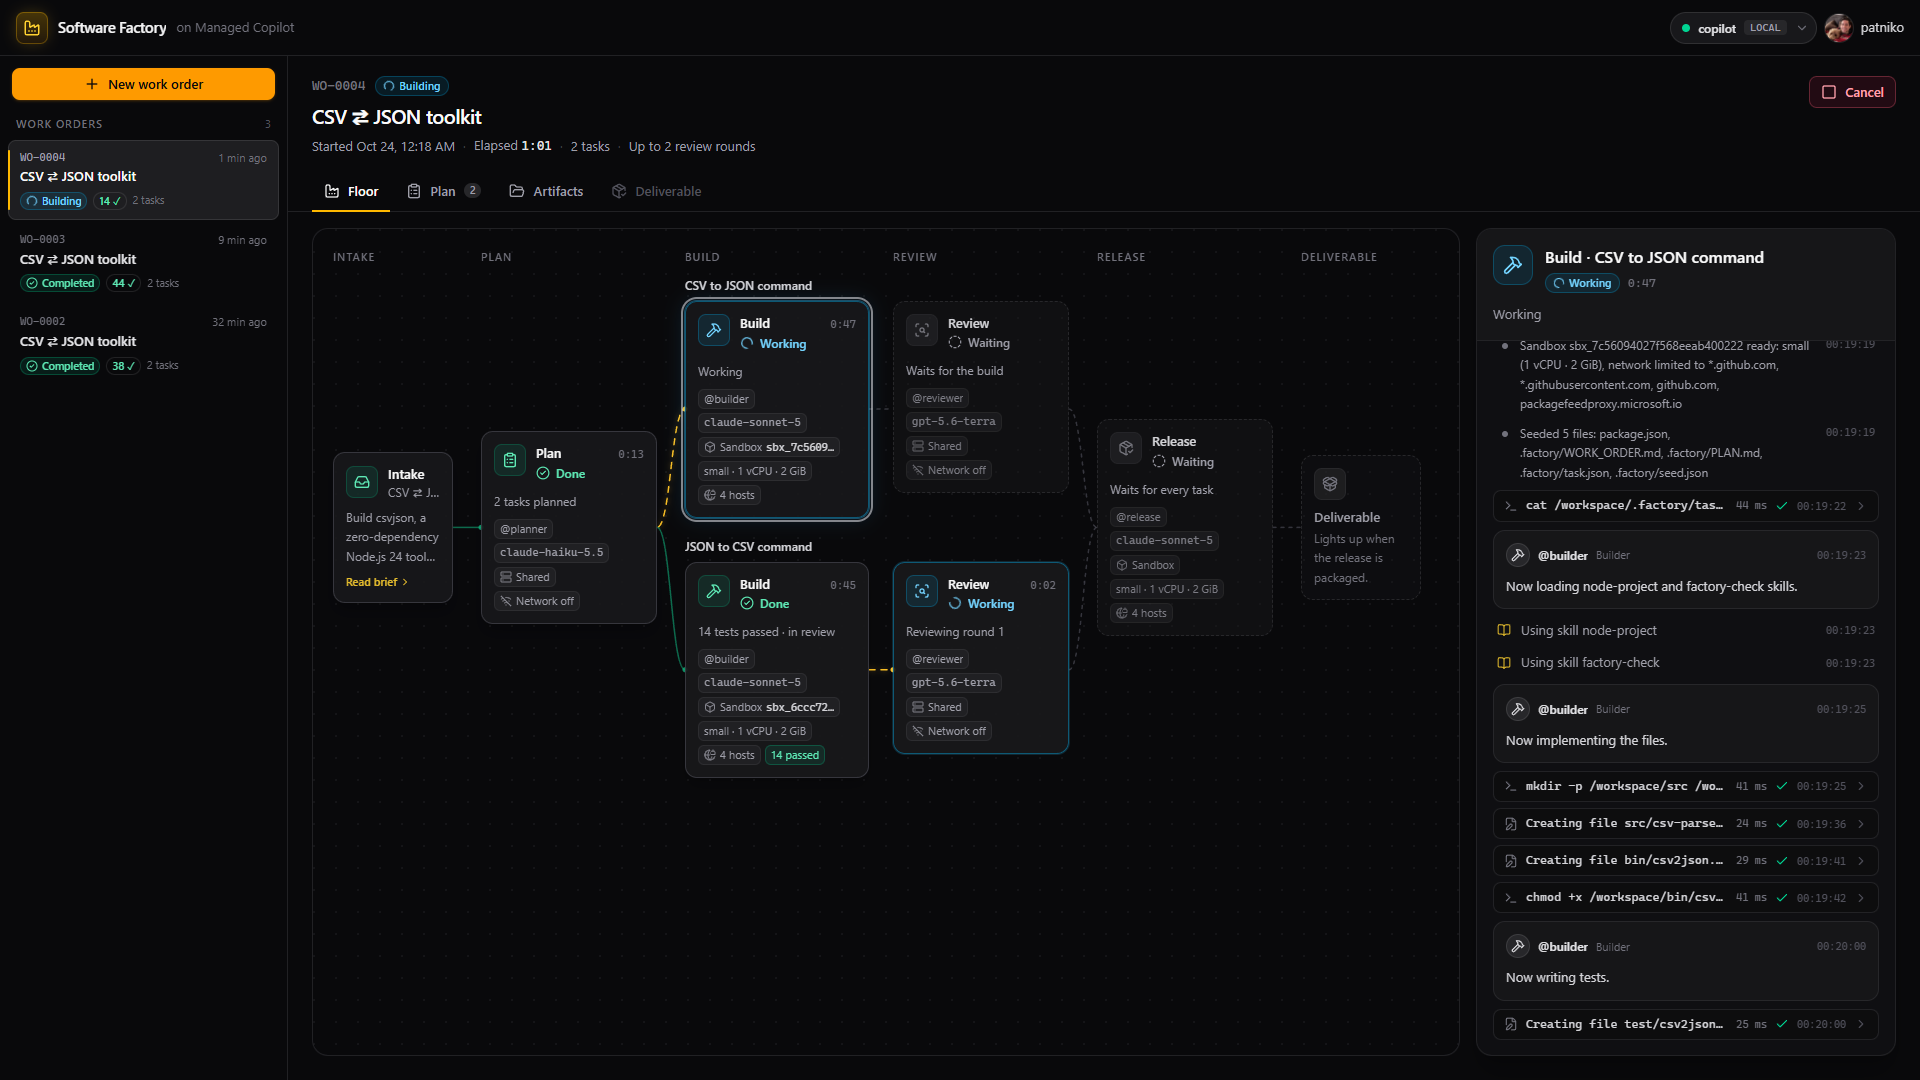
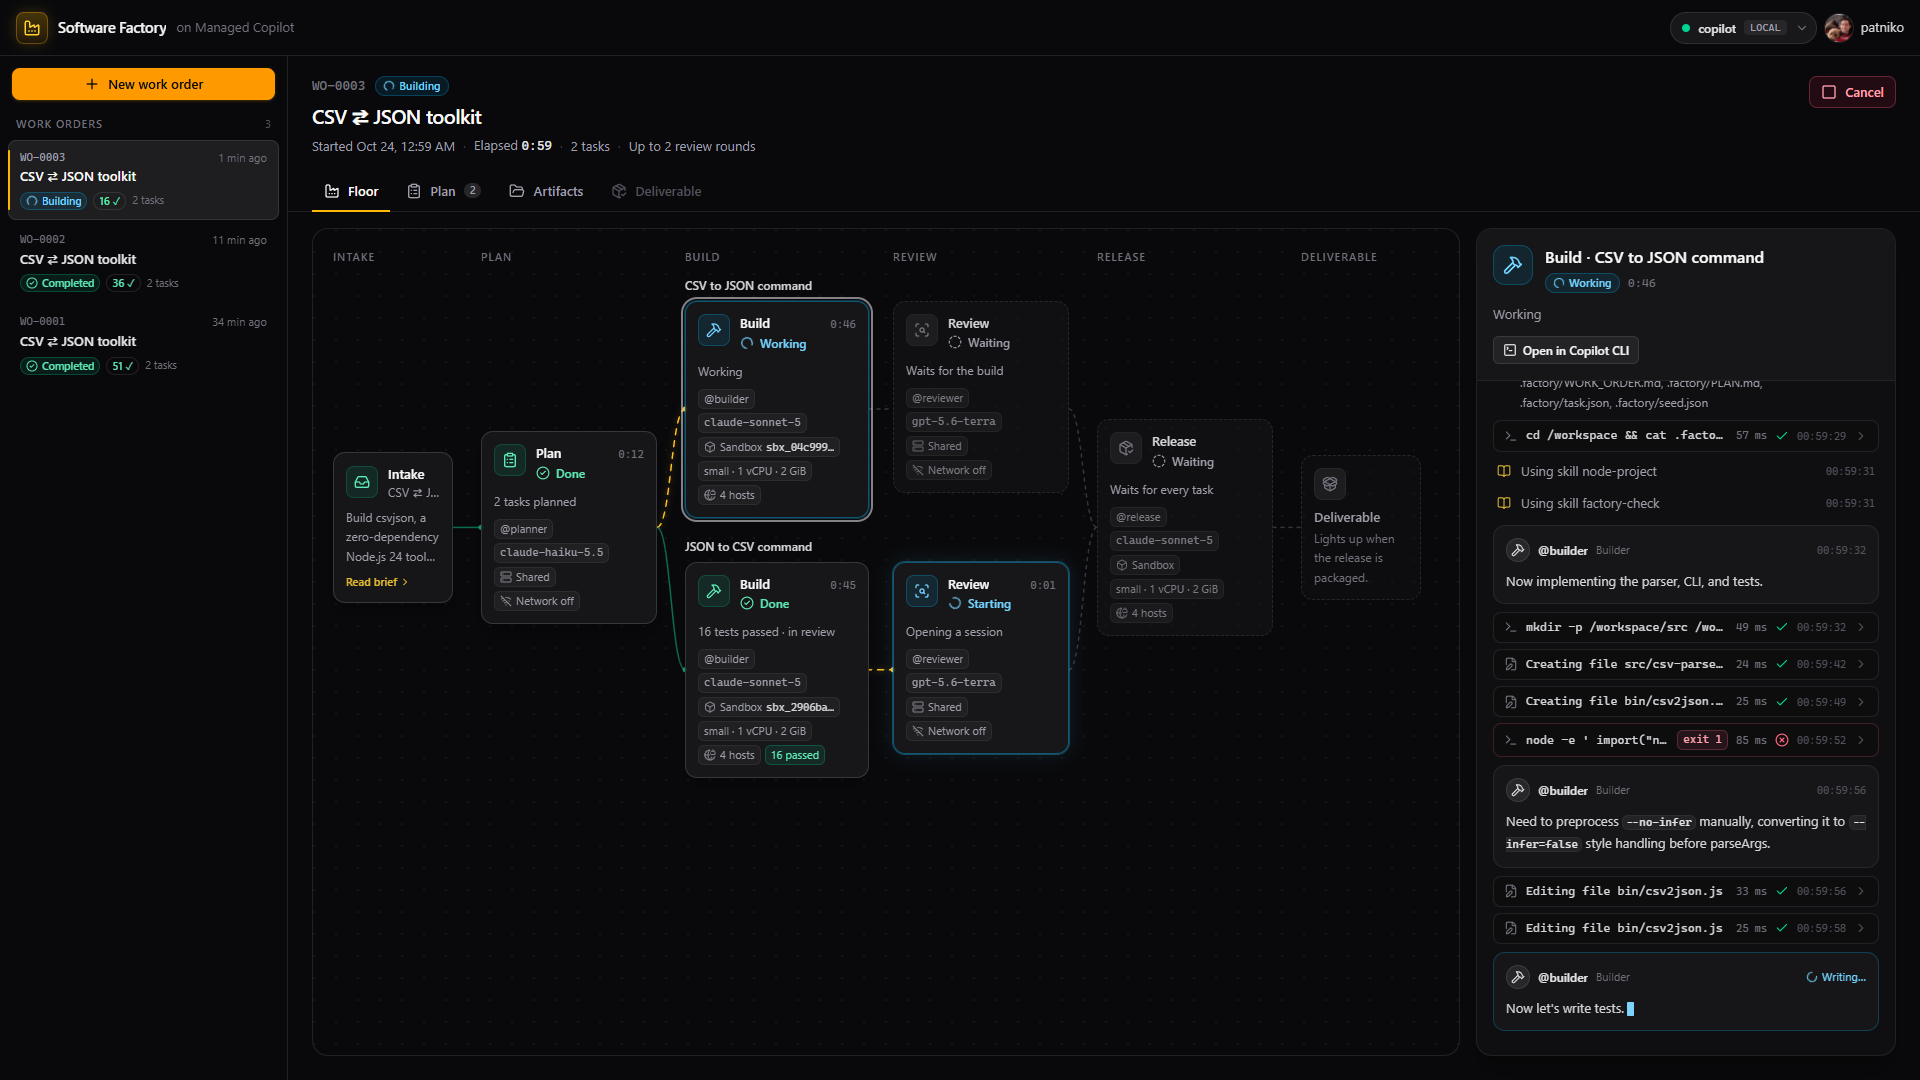
factory: refresh the README hero shot with Open in Copilot CLI
Captured live from WO-0003 (3m 34s, 44/44 tests): a builder streaming its turn
in a sandbox, the other task going to review, and the station panel's
"Open in Copilot CLI" button now that attach.cli is on main.

diff --git a/demos/software-factory/README.md b/demos/software-factory/README.md
@@ -5,11 +5,12 @@ specialized Copilot agents on **Managed Copilot**. Each station is an environmen
 its own custom agent, skills, isolation, and network policy. The app itself is ordinary Node code built on the stock
 `@github/copilot-sdk` and `@managed-copilot/sdk`.
 
-![The factory floor mid-run: two builders in their own sandboxes while a second model reviews the first finished task](docs/screenshots/floor-building.png)
+![The factory floor mid-run: one builder streaming its work in a sandbox while the other task goes to review on a second model](docs/screenshots/floor-building.png)
 
 *A live run of the featured work order: the planner split it into two tasks; one builder is still working in its
-sandbox while the other's work is already under review by a different model. The panel streams the selected
-station's activity: skills, commands, file edits, and test runs.*
+sandbox while the other's finished work goes to review on a different model. The panel streams the selected
+station's activity (skills, commands, file edits, and the agent's text as it's written) and can open the session in
+Copilot CLI.*
 
 ```mermaid
 flowchart LR
@@ -73,8 +74,8 @@ aspire run          # the platform, sandboxes, and the factory; open the "softwa
 
 The factory floor opens at <http://localhost:7480>. Pick the **CSV ⇄ JSON toolkit** template and press
 **Start work order**: two builders work side by side, the reviewer usually sends work back once, and the release
-lands in three to nine minutes. Measured live runs: 2m 52s (51 tests) and 4m 25s (36 tests) from `main`, and
-3m 55s to 8m 32s while the platform was coming together.
+lands in three to nine minutes. Measured live runs: 2m 52s (51 tests), 3m 34s (44 tests), and 4m 25s (36 tests)
+from `main`, and 3m 55s to 8m 32s while the platform was coming together.
 
 ### Scripted happy path
 
